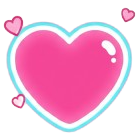
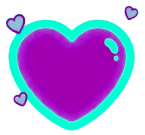
Add files via upload

diff --git a/tpfinalparte2/Clases.js b/tpfinalparte2/Clases.js
@@ -28,13 +28,23 @@ colision(){
 //ellipse(this.Ann.px + this.Ann.tam/2, this.Ann.py + this.Ann.tam/2, 10);
 //ellipse(this.Cecy.Hechizo.px + 20, this.Cecy.py + 50, 10);
 
-let Distancia = dist ( this.Ann.px + this.Ann.tam/2, this.Ann.py + this.Ann.tam/2, this.Cecy.Hechizo.px + 20, this.Cecy.py + 50);
-if (Distancia <60){
+if (this.Cecy.Hechizo.contacto(this.Ann) && this.Vidas.vidaperdida===true) {
 this.Vidas.vida-=1;
-  fill(255,0,0);
-  textSize(100);
-text("toco", 300,200);
+this.Vidas.vidaperdida = false;
 }
+if (!this.Cecy.Hechizo.contacto(this.Ann)) {
+this.Vidas.vidaperdida = true;
+}
+
+
+//let Distancia = dist ( this.Ann.px + this.Ann.tam/2, this.Ann.py + this.Ann.tam/2, this.Cecy.Hechizo.px + 20, this.Cecy.py + 50);
+//if (Distancia <60 && this.Vidas.vidaperdida===true){
+//this.Vidas.vida-=1;
+//this.Vidas.vidaperdida = false;
+//}
+//if (Distancia >= 60) {
+//this.Vidas.vidaperdida = true;
+//}
 
 }// llave metodo colision
 
@@ -113,7 +123,7 @@ moverAbajo(){
 class Cecy{//(Enemigo)
   
 constructor(){
-this.px = 520;
+this.px = 500;
 this.py = 30;
 this.alto = 150;
 this.baja = true;
@@ -123,7 +133,7 @@ this.Hechizo = new Hechizo();
 mostrar(){
 this.mover();
 image (Cecyimg, this.px, this.py, 100,this.alto);
-this.Hechizo.mostrar(this.py+35)
+this.Hechizo.mostrar(this.py+50)
 }
 
 mover(){
@@ -149,20 +159,31 @@ class Hechizo {
 
 constructor(){
 this.px = 430;
-this.baja = true;
+this.py = 0;
+this.tam = 80;
+this.alto = 18;
 }
 
 mostrar(py){
+this.py = py;
 this.disparo();
-image(hechizo, this.px, py, 80, 40);
+image(hechizo, this.px, this.py, this.tam, this.alto);
+noFill();
+quad(this.px, this.py, this.px+this.tam, this.py, this.px+this.tam, this.py+this.alto, this.px, this.py+this.alto);
 }
 
 disparo(){
-this.px -=5;
-if (this.px <= -100) {
+if (this.px <= -80) {
 this.px=430;
 }
+this.px -=5;
 }
+
+contacto(Ann, py) {
+    let contacto=this.px+this.tam > Ann.px && this.px < Ann.px + Ann.tam &&
+      this.py + this.alto > Ann.py && this.py < Ann.py + Ann.tam;
+    return contacto;
+  }
 
 }//no tocar
 
@@ -170,7 +191,7 @@ class Vidas {
   
 constructor(){
 this.vida = 5;
-
+this.vidaperdida = true;
 }
 
 mostrar(){

diff --git a/tpfinalparte2/tpfinalparte2.js b/tpfinalparte2/tpfinalparte2.js
@@ -10,8 +10,7 @@ fondo = loadImage('data/fondo.jpg');
 Annimg = loadImage('data/Annimg.png');
 Cecyimg = loadImage('data/Cecyimg.png');
 hechizo = loadImage('data/hechizo.png');
-portal = loadImage('data/portal.png');
-comenzar = loadImage('data/comenzar.png');
+portal = loadImage('data/portal.gif');
 vidas = loadImage('data/corazon.png');
 novida = loadImage('data/corazonvacio.png');
 cancion = loadSound('data/cancion.mp3');
@@ -25,6 +24,7 @@ juego = new Juego();
 
 function draw() {
 image(fondo, 0,0);
+image(portal, 560,200,100,150);
 juego.mostrar();
 }
 
